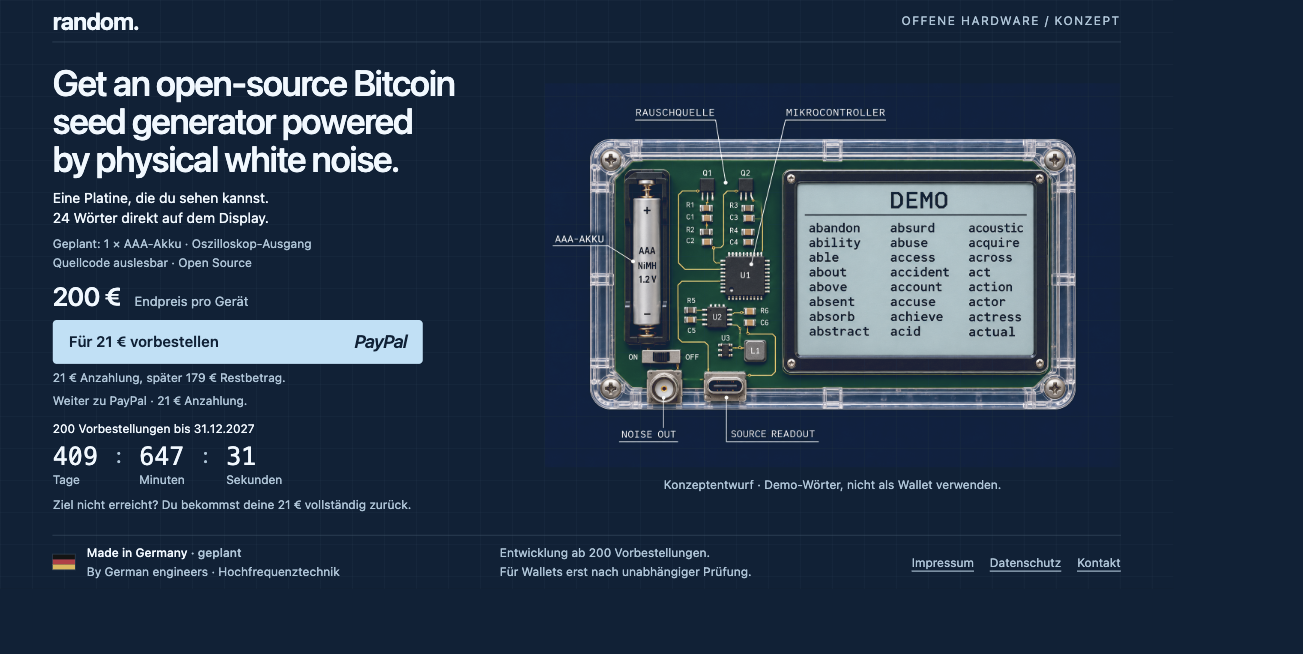
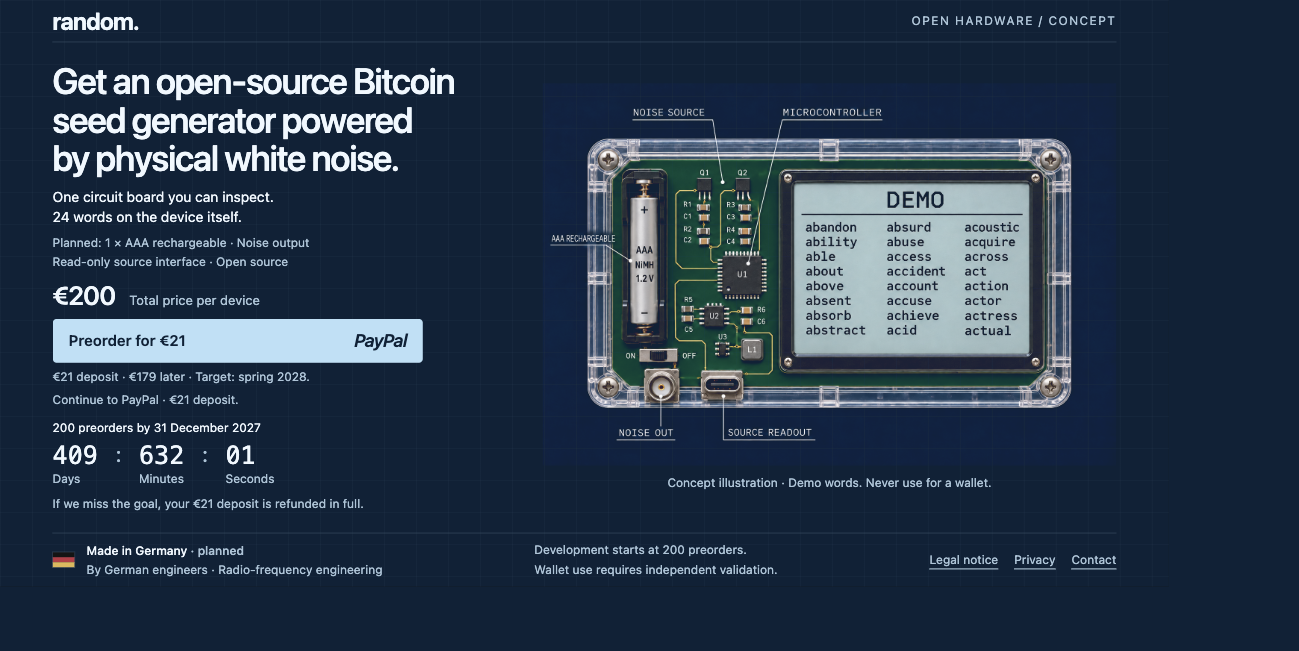
Request English checkout and record custom-domain verification

diff --git a/public/app.js b/public/app.js
@@ -1,5 +1,5 @@
 import {remaining} from './countdown.mjs';
-const checkoutUrl = 'https://www.paypal.com/ncp/payment/LNLWF5H4LCK44';
+const checkoutUrl = 'https://www.paypal.com/ncp/payment/LNLWF5H4LCK44?locale.x=en_US';
 const button = document.querySelector('#preorder');
 const status = document.querySelector('#checkout-status');
 function tick() {

diff --git a/README.md b/README.md
@@ -41,4 +41,4 @@ The service stores email, timestamp and consent version in a private SQLite file
 
 ## Current preview (16 November 2026)
 
-Lovable regeneration is paused because credits ran out. Local implementation is available at http://127.0.0.1:8864. No paid upgrade, deployment or checkout activation was performed. `node tests/test_countdown.mjs` checks six countdown boundaries. See [verification results](docs/verification.md). Real ego-lite checks cover 320×740, desktop, keyboard CTA, zero/expired timer and blocked payment state. The CTA now opens the verified 21 EUR PayPal hosted checkout. No transaction has been made. GitHub Pages and Porkbun DNS are configured; HTTPS provisioning and PayPal merchant settings are being finalized. Paid order counting and refunds are operational/manual, not automatic.
+Lovable regeneration is paused because credits ran out. Local implementation is available at http://127.0.0.1:8864. No paid upgrade, deployment or checkout activation was performed. `node tests/test_countdown.mjs` checks six countdown boundaries. See [verification results](docs/verification.md). Real ego-lite checks cover 320×740, desktop, keyboard CTA, zero/expired timer and blocked payment state. The CTA now opens the verified 21 EUR PayPal hosted checkout. No transaction has been made. GitHub Pages and Porkbun DNS are configured. PayPal merchant settings require a renewed login after the editing session expired. Paid order counting and refunds are operational/manual, not automatic.

diff --git a/docs/verification.md b/docs/verification.md
@@ -32,3 +32,5 @@ Business session verified. Created hosted payment link LNLWF5H4LCK44, SKU RANDOM
 ## English custom-domain deployment
 
 User corrected seller address to Pestalozzistrasse65,72762 Reutlingen,Germany; postcode checked against DAAD. Target delivery spring2028 confirmed. All website text and image annotations translated to English. GitHub Pages workflow deployed successfully; DNS random changed from the old A record to CNAME eliaspfeffer.github.io (TTL600). GitHub custom domain configured. At this checkpoint HTTP serves correct English homepage; HTTPS certificate is pending provider provisioning. PayPal edit session expired, so English description and merchant-home update have not yet been saved; renewed user login requested.
+
+Production static assets verified over HTTP: homepage, legal notice, stylesheet, app module, countdown module and English image all200 with expected content. Legal notice includes correct72762 address; spring2028 target displayed. English small-screen layout verified320×740 without overflow; legal link and hosted checkout tested using keyboard Enter. Checkout URL requests English via locale.x=en_US; PayPal general checkout labels display English, while seller product text remains German pending renewed merchant login.
